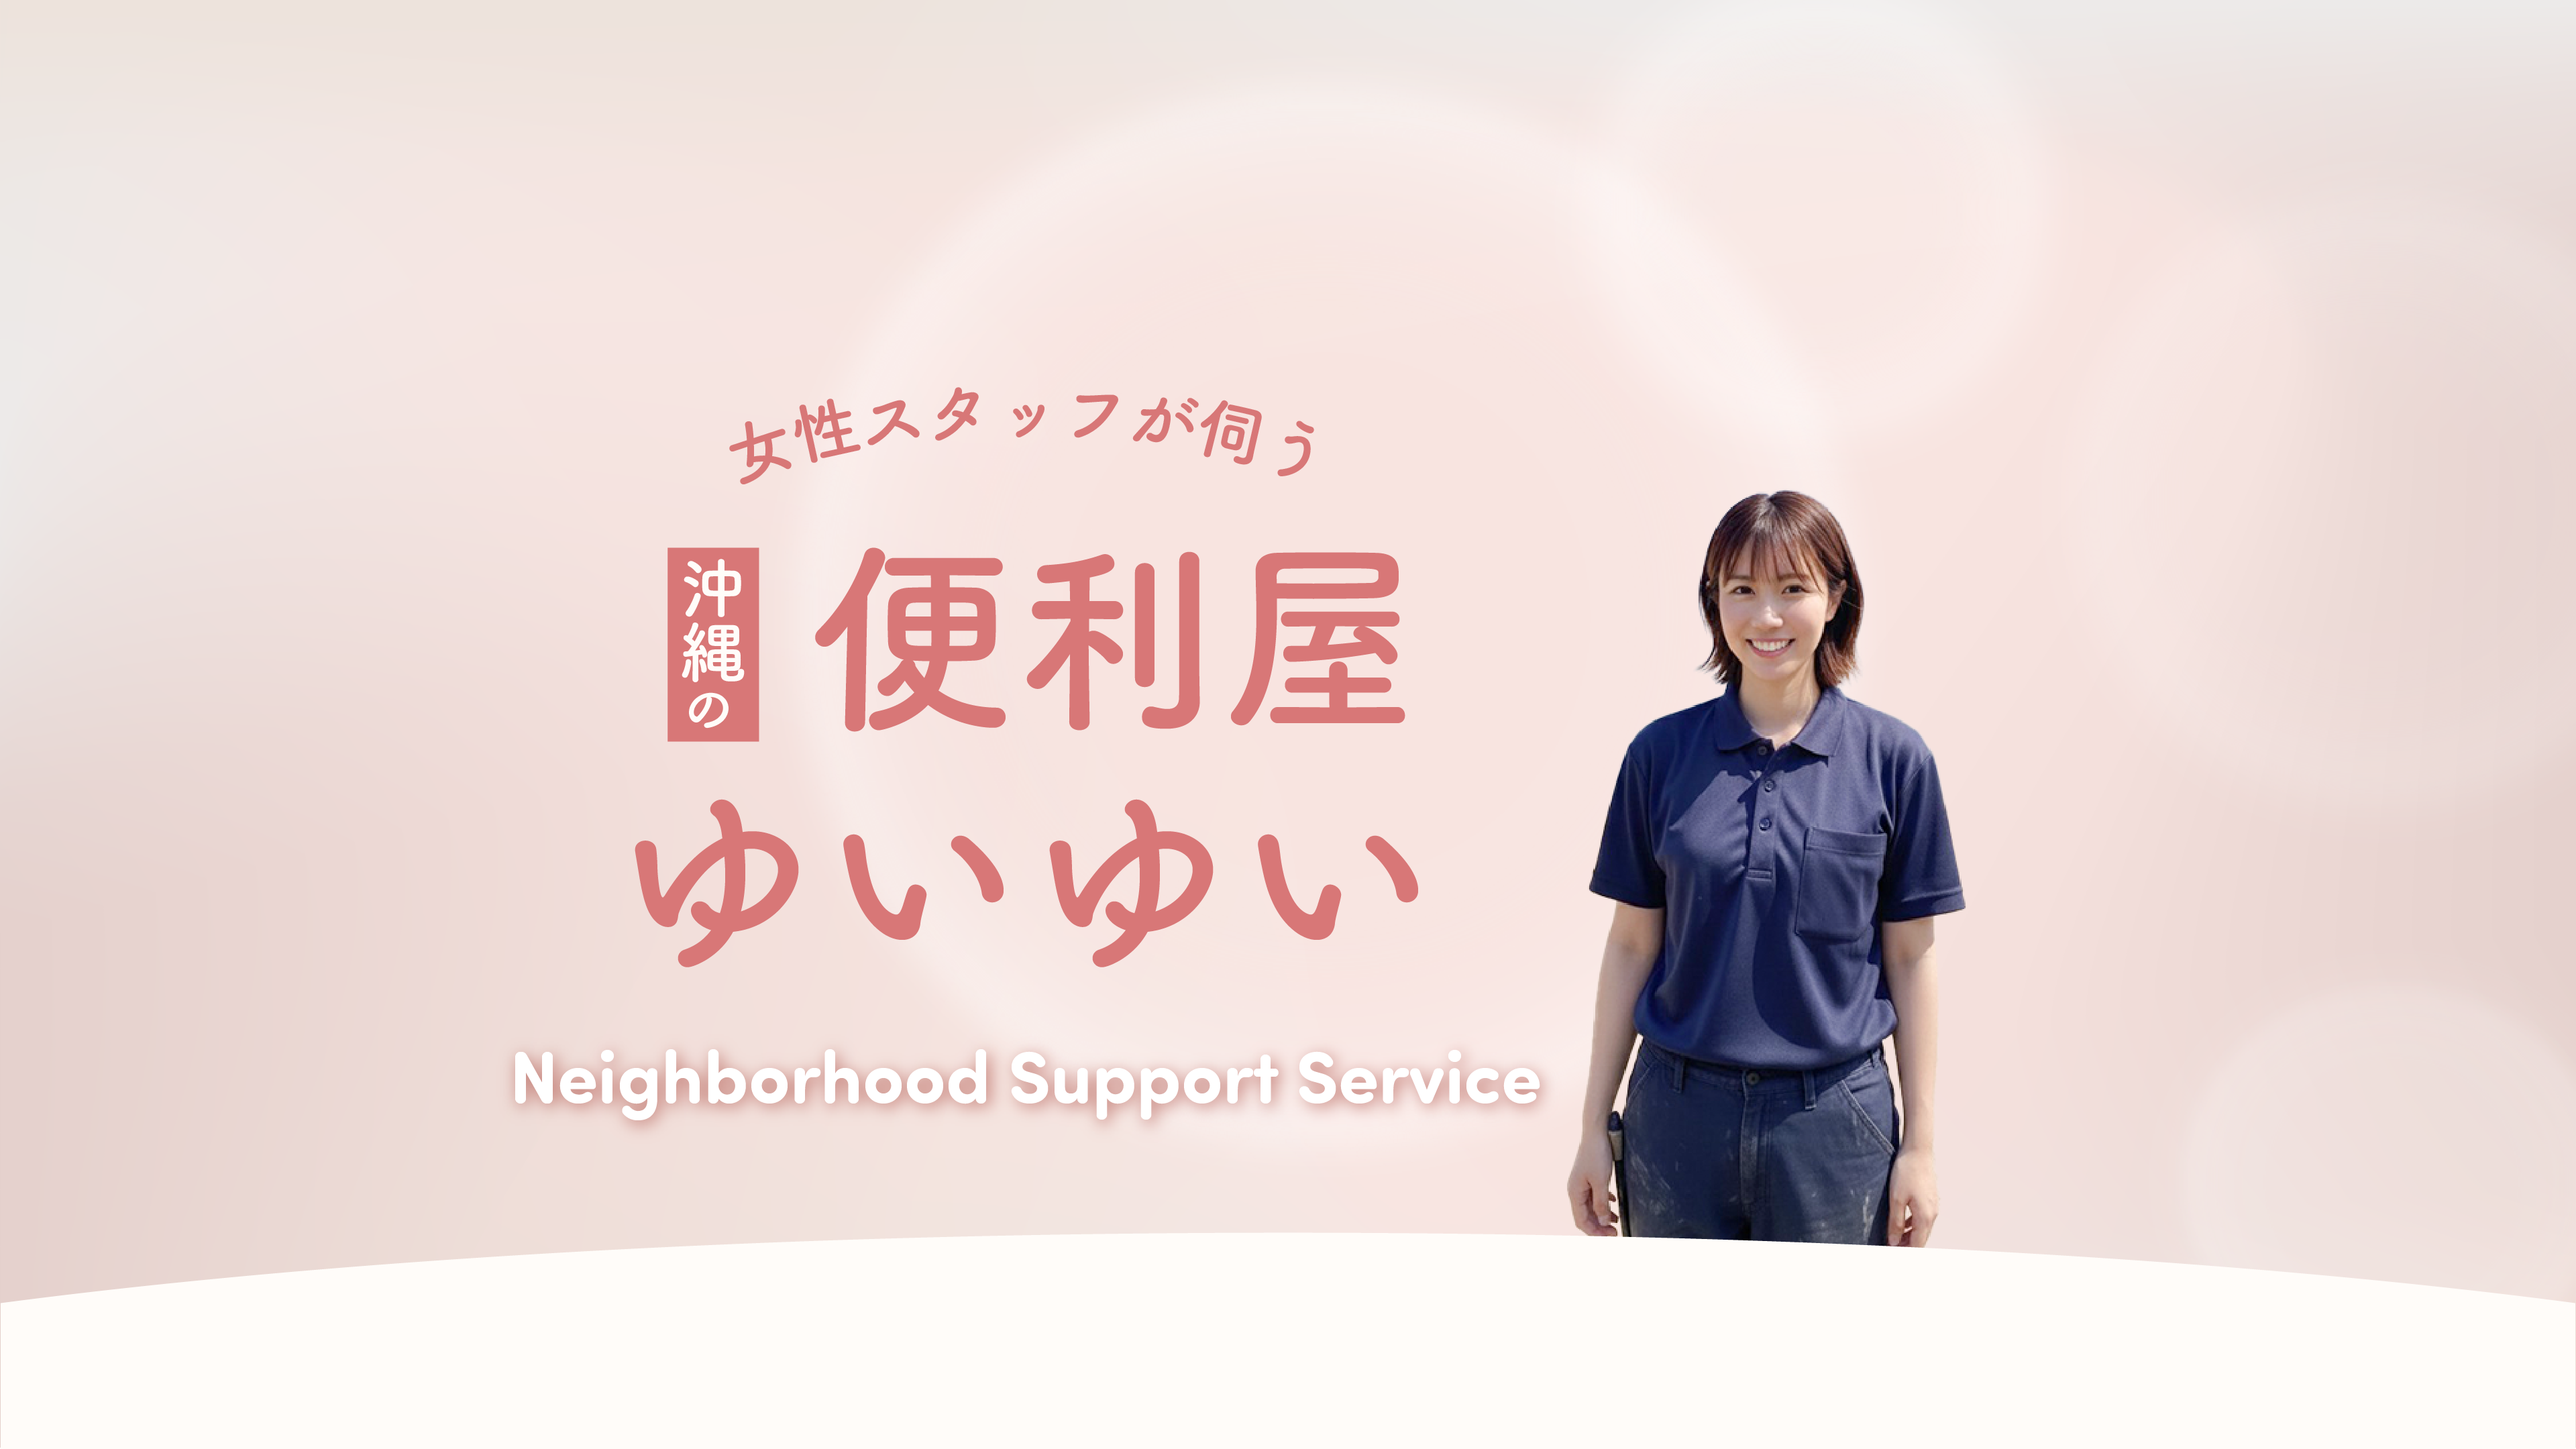
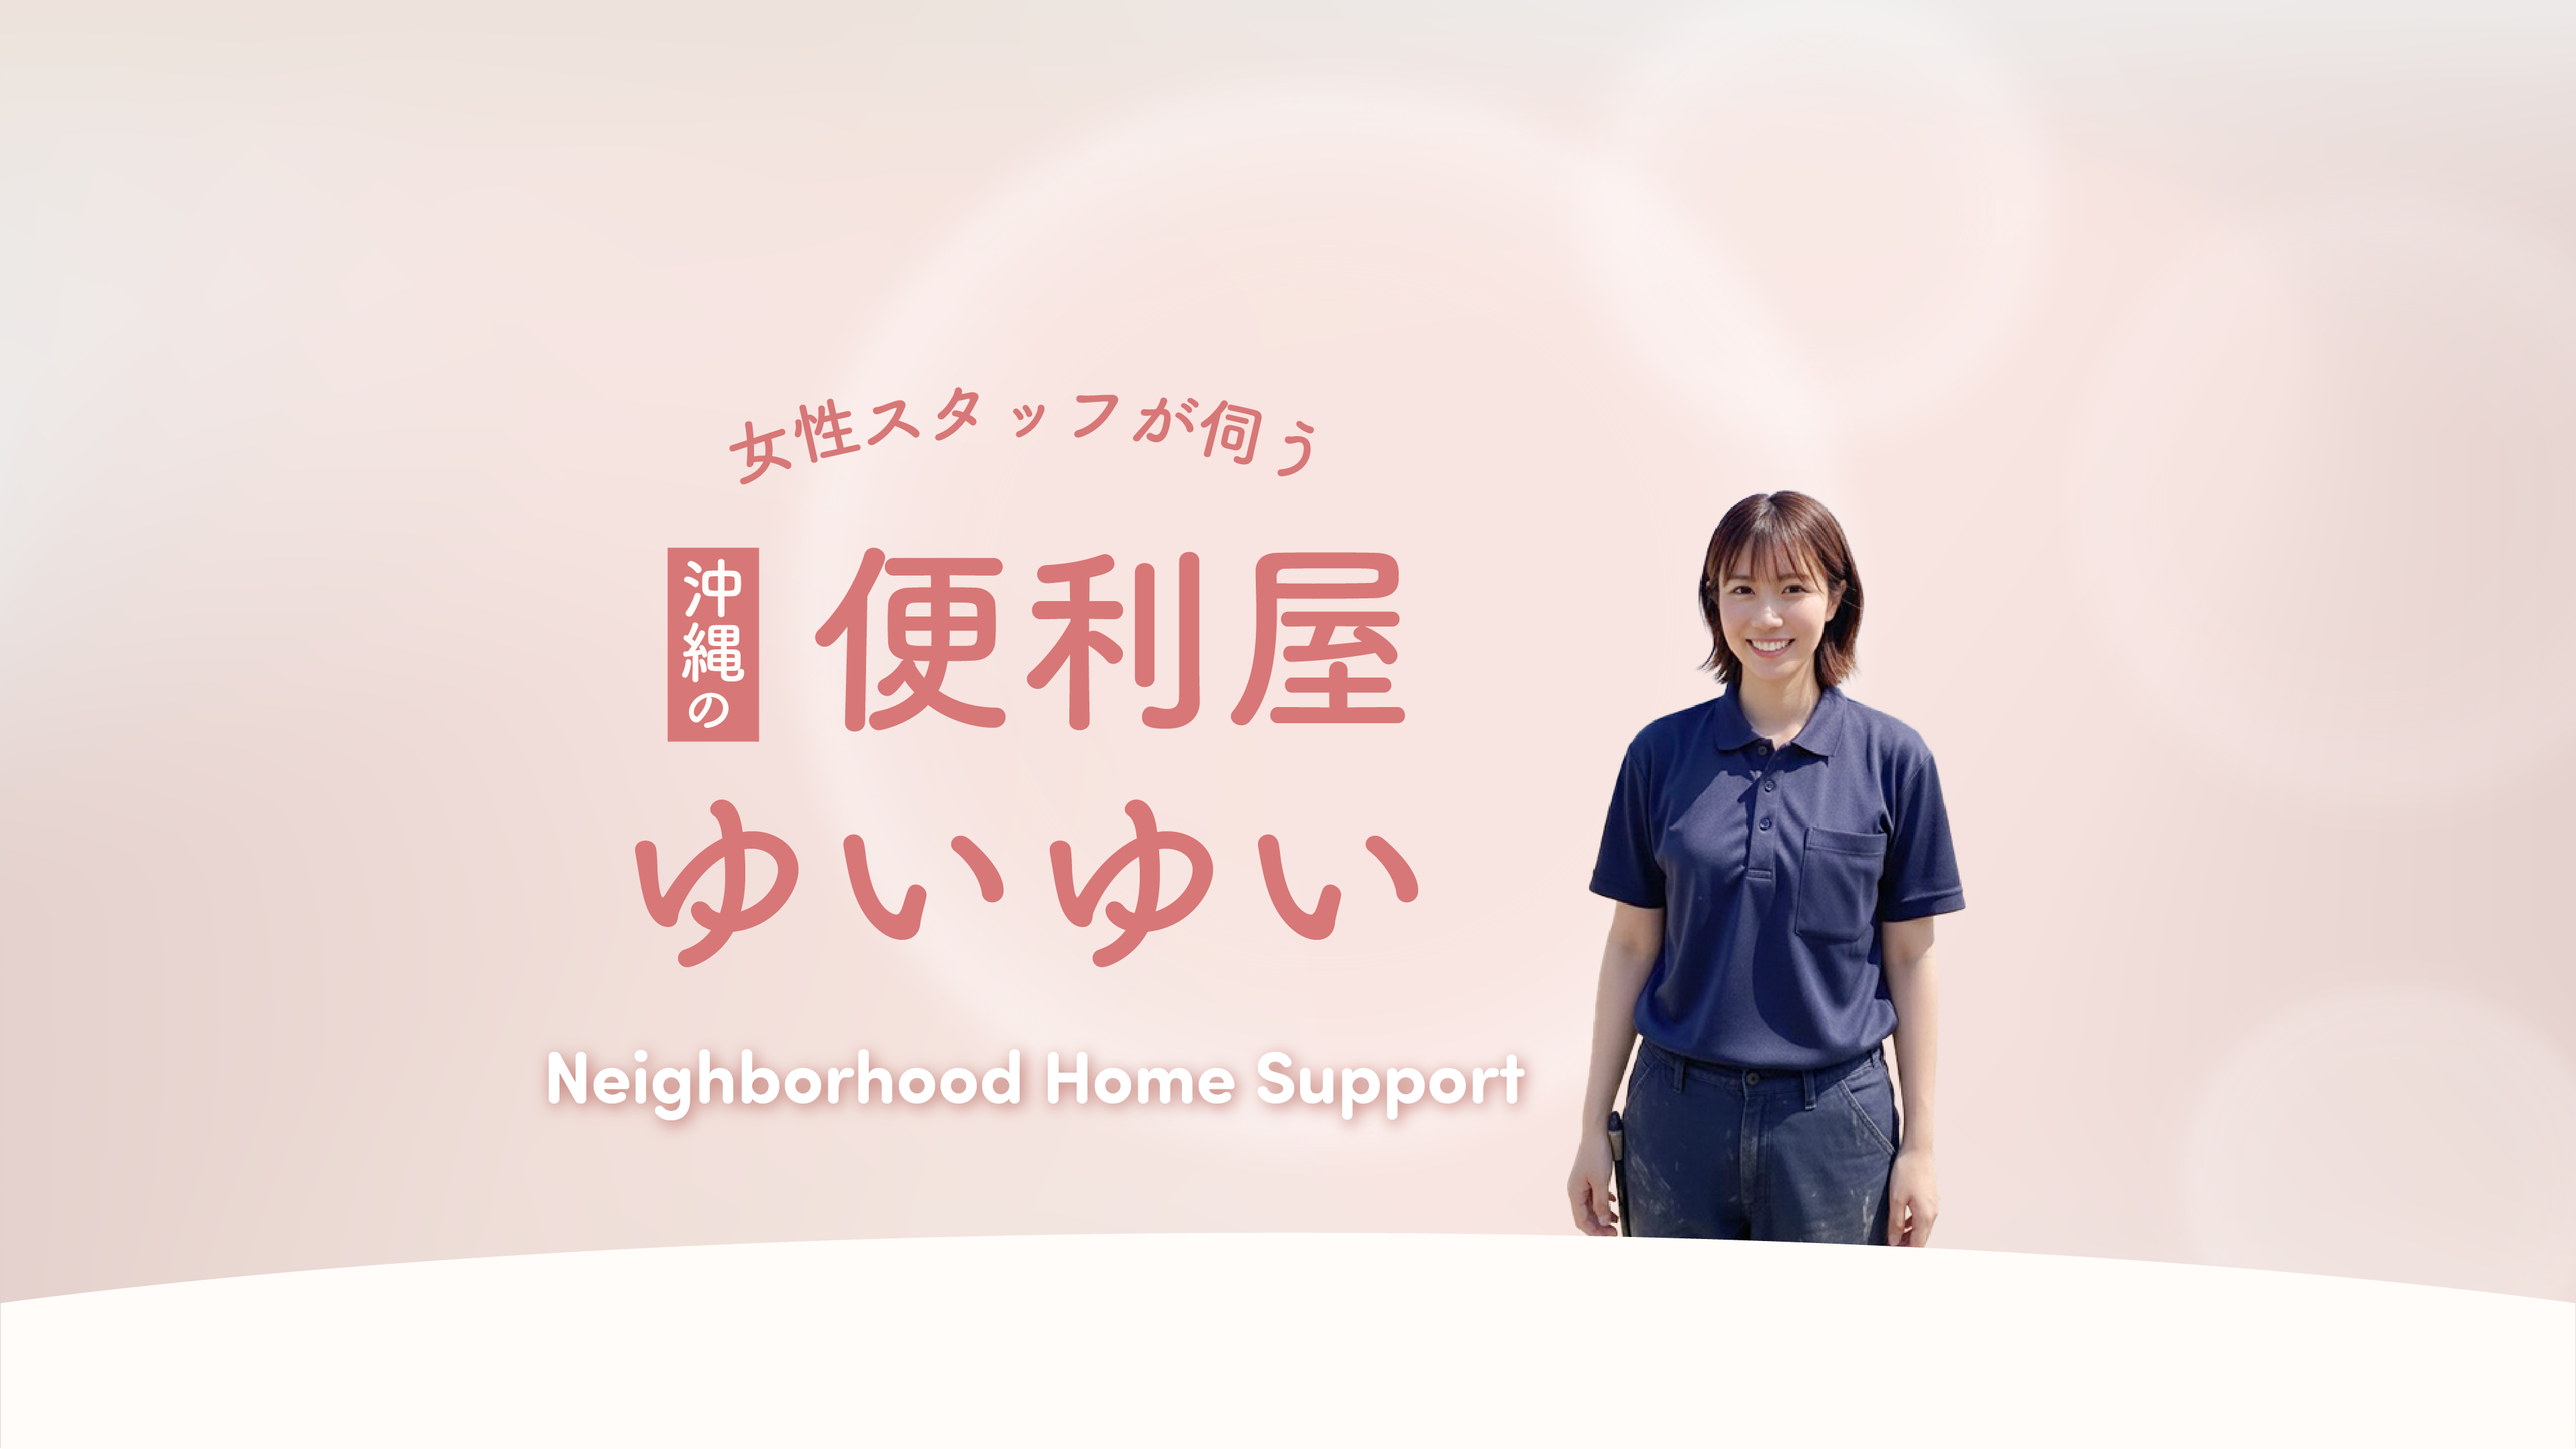
Upload all files

Changed region(s): [[0.1875, 0.7134, 0.625, 0.7755]]

diff --git a/english/index.html b/english/index.html
@@ -6,7 +6,7 @@
     <meta name="viewport" content="width=device-width, initial-scale=1.0">
     <title>沖縄の便利屋ゆいゆい</title>
     <meta name="description"
-        content="沖縄の便利屋ゆいゆいは、引っ越し前後の手伝いや体調不良のときの買い出しなど、暮らしの中の小さな困りごとをサポートします。地域に根ざしたサービスで、あなたの生活をより快適にします。">
+        content="Neighborly support in Okinawa. From moving help to grocery shopping when you're unwell, Yuiyui provides gentle, female-led assistance for your daily needs. Inspired by the spirit of 'Yuimaru'">
     <link rel="stylesheet" href="../style.css">
     <link rel="preconnect" href="https://fonts.googleapis.com">
     <link rel="preconnect" href="https://fonts.gstatic.com" crossorigin>
@@ -54,7 +54,8 @@
             <div class="p-top-hero__visual">
                 <picture>
                     <source media="(min-width: 768px)" srcset="../img/mv_dt.webp">
-                    <img src="../img/mv_sp.webp" alt="女性スタッフが伺う 沖縄の便利屋 ゆいゆい Neighborhood Support Service"
+                    <img src="../img/mv_sp.webp"
+                        alt="Female staff providing neighborhood home support in Okinawa - Yuiyui"
                         class="p-top-hero__main-img">
                 </picture>
             </div>
@@ -77,7 +78,8 @@
                         you can count on us.
                     </p>
                     <p class="p-top-hero__text">
-                        Handyman Yuiyui brings the spirit of<br>
+                        Neighborhood Home Support Yuiyui<br>
+                        brings the spirit of<br>
                         "Yuimaru" (mutual help) to your daily life.
                     </p>
                     <div class="p-top-hero__link-wrapper">
@@ -150,12 +152,12 @@
                     <h2 class="p-top-area__title">Area</h2>
 
                     <div class="p-top-area__content">
-                        <p class="p-top-area__lead">Central Okinawa Region:</p>
                         <ul class="p-top-area__list">
-                            <li class="p-top-area__item">Okinawa City</li>
-                            <li class="p-top-area__item">Uruma City</li>
+                            <li class="p-top-area__item">Naha City</li>
+                            <li class="p-top-area__item">Urasoe City</li>
                             <li class="p-top-area__item">Ginowan City</li>
-                            <li class="p-top-area__item">Chatan Town</li>
+                            <li class="p-top-area__item">Okinawa City / Chatan Town</li>
+                            <li class="p-top-area__item">Uruma City</li>
                         </ul>
                         <p class="p-top-area__note">Services in other areas are available upon consultation.</p>
                     </div>
@@ -482,7 +484,7 @@
                         </div>
                     </div>
 
-                    <p class="l-footer__copyright">&copy; Handyman Yuiyui</p>
+                    <p class="l-footer__copyright">&copy; Neighborhood Home Support Yuiyui</p>
                 </div>
             </div>
         </footer>

diff --git a/english/about.html b/english/about.html
@@ -63,7 +63,7 @@
 
                     <p class="p-about__text u-fade-up">
                         Nice to meet you.<br>
-                        I am Suganuma, the owner of Handyman Yuiyui.
+                        I am Suganuma, the owner of Neighborhood Home Support Yuiyui.
                     </p>
 
                     <p class="p-about__text u-fade-up">
@@ -108,7 +108,7 @@
                     <p class="p-about__text u-fade-up">
                         "I want to help those who, like me, are working hard but have no one to rely on."<br>
                         "I want to help turn loneliness and anxiety into peace of mind and smiles."<br>
-                        With these thoughts in mind, I established Handyman Yuiyui.
+                        With these thoughts in mind, I established Neighborhood Home Support Yuiyui.
                     </p>
 
                     <p class="p-about__text u-fade-up">
@@ -150,7 +150,7 @@
                         </div>
                     </div>
 
-                    <p class="l-footer__copyright">&copy; Handyman Yuiyui</p>
+                    <p class="l-footer__copyright">&copy; Neighborhood Home Support Yuiyui</p>
                 </div>
             </div>
         </footer>

diff --git a/index.html b/index.html
@@ -153,9 +153,11 @@
 
                     <div class="p-top-area__content">
                         <ul class="p-top-area__list">
-                            <li class="p-top-area__item">沖縄中部全域沖縄市</li>
+                            <li class="p-top-area__item">那覇市</li>
+                            <li class="p-top-area__item">浦添市</li>
+                            <li class="p-top-area__item">宜野湾市</li>
+                            <li class="p-top-area__item">沖縄市北谷町</li>
                             <li class="p-top-area__item">うるま市</li>
-                            <li class="p-top-area__item">宜野湾市　北谷町</li>
                         </ul>
                         <p class="p-top-area__note">上記以外の地域は相談にて承ります</p>
                     </div>

diff --git a/style.css b/style.css
@@ -12,8 +12,8 @@
   /* =====================
    Font
   ===================== */
-  --font-base: "Zen Kaku Gothic New", sans-serif;
-  --font-en: "Open Sans", sans-serif;
+  --font-base: 'Zen Kaku Gothic New', sans-serif;
+  --font-en: 'Open Sans', sans-serif;
   /* =====================
    Font size
   ===================== */
